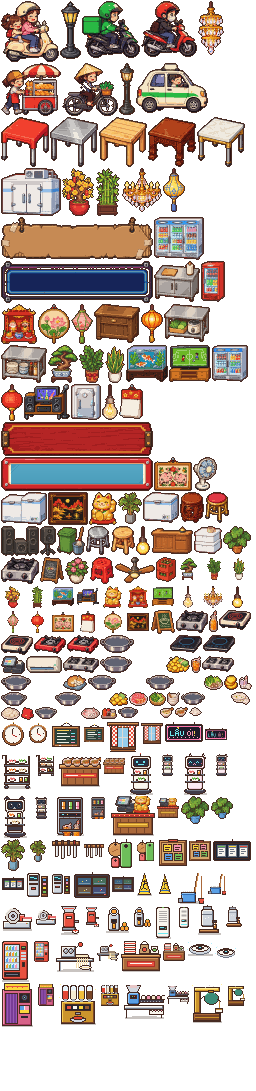
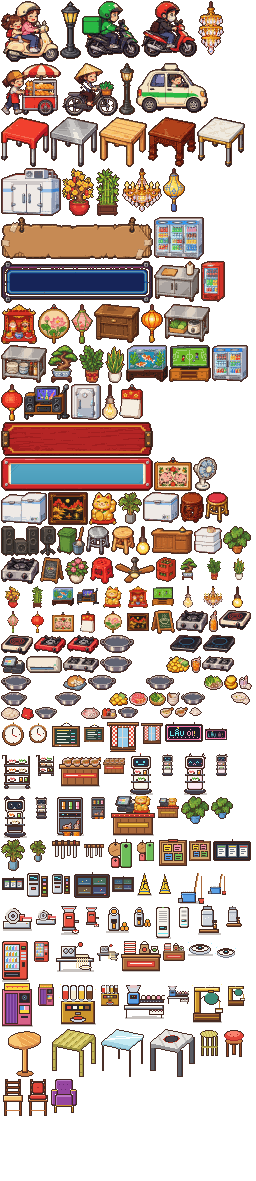
Lẩu Ơi v1.18i: tách màu bàn / màu ghế, thêm dáng bàn & dáng ghế vào Hộp mù, sửa bảng bị thanh menu che
- Màu bàn và màu ghế là hai loại riêng: 5 màu bàn (cũ) chỉ tô bàn; 7 màu ghế mới (gỗ sáng, nhựa trắng,
  nhựa xanh lá, nhựa xanh dương, hồng pastel, gỗ óc chó, Ghế Rồng Vàng); ô xem trước đúng hình bàn / ghế
- Dáng mới vẽ pixel (dùng chung được với màu): bàn tròn một chân, bàn tre, bàn mặt kính chân sắt, bàn lẩu bếp âm;
  ghế đẩu tre, ghế có đệm, ghế tựa lưng, ghế tựa lưng có đệm, ghế bành nhung (SSR)
- Bộ lọc "Nồi, bàn, ghế"; Hộp mù giờ 109 món
- Bảng (sheet) kết thúc đúng mép thanh menu dưới (đo chiều cao thật), thẻ cuối không bị che; sw lauoi-v38

Claude-Session: https://claude.ai/code/session_01BD8ysNy2UsXiFAiTavnXvs

diff --git a/web/quanlau/src/art/data/props.js b/web/quanlau/src/art/data/props.js
@@ -1,2 +1,2 @@
 // generated by tools/art/pack.py — do not edit
-export default {"file":"props.png","frames":{"xemay2":[1,1,58,61,29,60],"lamp":[60,1,21,58,10,57],"grab":[82,1,58,57,29,56],"xemay":[141,1,56,56,28,55],"den_chum2":[198,1,26,54,13,1],"xebanhmi":[1,63,60,53,30,52],"xedap":[62,63,56,53,28,52],"lamp2":[119,63,16,52,8,51],"taxi":[136,63,72,50,36,49],"table0":[1,117,48,50,24,34],"table1":[50,117,48,50,24,34],"table2":[99,117,48,50,24,34],"table3":[148,117,48,50,24,34],"table4":[197,117,48,50,24,34],"kho4":[1,168,60,48,30,47],"cay_mai":[62,168,32,48,16,47],"cay_tre":[95,168,26,48,13,47],"den_chum1":[122,168,40,44,20,1],"den_hoian2":[163,168,22,44,11,1],"sign1":[1,217,152,43,76,21],"cooler2":[154,217,50,43,25,42],"sign4":[1,261,152,42,76,21],"counter_c":[154,261,46,41,23,40],"cooler0":[201,261,24,41,12,40],"db_ongdia":[1,304,36,40,18,39],"tuong_quat":[38,304,32,40,16,1],"den_hoian1":[71,304,22,40,11,1],"counter_wood":[94,304,46,39,23,38],"den_cam":[141,304,22,39,11,1],"counter_a":[164,304,46,38,23,37],"counter_b":[1,345,46,38,23,37],"cay_bonsai":[48,345,30,38,15,37],"cay_kimtien":[79,345,25,38,12,37],"cay_luoiho":[105,345,20,38,10,37],"db_beca":[126,345,42,37,21,36],"db_tivi":[169,345,42,37,21,36],"cooler1":[212,345,36,37,18,36],"den_long_do":[1,384,22,37,11,1],"db_karaoke":[24,384,46,36,23,35],"kho3":[71,384,30,36,15,35],"den_bong":[102,384,16,36,8,1],"tuong_lich":[119,384,24,35,12,1],"sign2":[1,422,152,34,76,17],"sign3":[1,457,152,34,76,17],"tuong_dongho":[154,457,38,34,19,1],"fan":[193,457,24,34,12,33],"kho2":[1,492,46,33,23,32],"tuong_sonmai":[48,492,40,33,20,32],"db_meo":[89,492,28,33,14,32],"plant_palm":[118,492,24,32,12,31],"kho1":[143,492,36,31,18,30],"stool3":[180,492,24,31,12,30],"stool4":[205,492,24,31,12,30],"spk2":[1,526,38,30,19,29],"spk1":[40,526,16,30,8,29],"bin":[57,526,28,29,14,28],"stool1":[86,526,24,29,12,28],"stool2":[111,526,24,29,12,28],"den_day":[136,526,14,29,7,1],"desk":[151,526,42,28,21,27],"kho0":[194,526,28,28,14,27],"plant_monstera":[223,526,28,28,14,27],"stove4":[1,557,38,27,19,26],"chalk":[40,557,24,27,12,26],"plant_flower":[65,557,24,27,12,26],"stool0":[90,557,24,27,12,26],"ceilfan":[115,557,40,26,20,25],"crates":[156,557,20,25,10,24],"ico_cay_bonsai":[177,557,24,24,12,12],"ico_cay_kimtien":[202,557,24,24,12,12],"ico_cay_luoiho":[227,557,24,24,12,12],"ico_cay_mai":[1,585,24,24,12,12],"ico_cay_tre":[26,585,24,24,12,12],"ico_db_beca":[51,585,24,24,12,12],"ico_db_karaoke":[76,585,24,24,12,12],"ico_db_meo":[101,585,24,24,12,12],"ico_db_ongdia":[126,585,24,24,12,12],"ico_db_tivi":[151,585,24,24,12,12],"ico_den_bong":[176,585,24,24,12,12],"ico_den_chum":[201,585,24,24,12,12],"ico_den_day":[226,585,24,24,12,12],"ico_den_hoian":[1,610,24,24,12,12],"ico_den_long_do":[26,610,24,24,12,12],"ico_tuong_dongho":[51,610,24,24,12,12],"ico_tuong_lich":[76,610,24,24,12,12],"ico_tuong_quat":[101,610,24,24,12,12],"ico_tuong_sonmai":[126,610,24,24,12,12],"menuboard":[151,610,24,24,12,23],"tburner4":[176,610,32,23,16,22],"bottle_orange":[209,610,9,22,4,21],"stove2":[219,610,32,20,16,19],"tburner2":[1,635,32,20,16,19],"stove0":[34,635,32,19,16,18],"tburner0":[67,635,32,19,16,18],"pot4_s":[100,635,34,18,17,17],"pot4_s_m":[135,635,34,18,17,17],"stove3":[170,635,32,18,16,17],"tburner3":[203,635,32,18,16,17],"pos":[1,656,24,18,12,17],"aircon":[26,656,36,17,18,16],"stove1":[63,656,36,17,18,16],"pot3_s":[100,656,32,17,16,16],"pot3_s_m":[133,656,32,17,16,16],"coin_l":[166,656,24,17,12,16],"cup_tea":[191,656,10,17,5,16],"tburner1":[202,656,32,16,16,15],"pot2_s":[1,675,30,16,15,15],"pot2_s_m":[32,675,30,16,15,15],"cat":[63,675,24,16,12,15],"pot1_s":[88,675,28,15,14,14],"pot1_s_m":[117,675,28,15,14,14],"pot4_t":[146,675,28,15,14,14],"pot4_t_m":[175,675,28,15,14,14],"plate_veg":[204,675,19,15,9,14],"coin_s":[224,675,14,15,7,14],"dirty_cup":[239,675,13,15,6,14],"pot0_s":[1,692,26,14,13,13],"pot0_s_m":[28,692,26,14,13,13],"pot3_t":[55,692,26,14,13,13],"pot3_t_m":[82,692,26,14,13,13],"coin_mid":[109,692,19,14,9,13],"plate_meat":[129,692,19,14,9,13],"plate_herb":[149,692,17,14,8,13],"dirty_bowls":[167,692,13,14,6,13],"pot2_t":[181,692,24,13,12,12],"pot2_t_m":[206,692,24,13,12,12],"dirty_plate":[231,692,19,13,9,12],"plate_noodle":[1,707,19,13,9,12],"reserved":[21,707,13,13,6,12],"pot1_t":[35,707,22,12,11,11],"pot1_t_m":[58,707,22,12,11,11],"plate_fish":[81,707,19,12,9,11],"condiments":[101,707,16,12,8,11],"pot0_t":[118,707,20,11,10,10],"pot0_t_m":[139,707,20,11,10,10],"bowl_noodle":[160,707,14,11,7,10],"bowl_sauce":[175,707,13,10,6,9],"napkins":[189,707,13,9,6,8],"tuong_clock":[1,722,24,26,12,1],"ico_tuong_clock":[26,722,24,24,12,12],"tuong_bangmon":[51,722,30,26,15,1],"ico_tuong_bangmon":[82,722,24,24,12,12],"tuong_rem":[107,722,32,30,16,1],"ico_tuong_rem":[140,722,24,24,12,12],"tuong_led":[165,722,38,20,19,1],"ico_tuong_led":[204,722,24,24,12,12],"db_xeday":[1,753,32,36,16,35],"ico_db_xeday":[34,753,24,24,12,12],"db_quaycham":[59,753,42,34,21,33],"ico_db_quaycham":[102,753,24,24,12,12],"db_robot":[127,753,28,42,14,41],"ico_db_robot":[156,753,24,24,12,12],"db_robotmeo":[181,753,28,42,14,41],"ico_db_robotmeo":[210,753,24,24,12,12],"db_robotgau":[1,796,28,42,14,41],"ico_db_robotgau":[30,796,24,24,12,12],"db_mayphanuoc":[55,796,30,40,15,39],"ico_db_mayphanuoc":[86,796,24,24,12,12],"db_quaythungan":[111,796,44,40,22,39],"ico_db_quaythungan":[156,796,24,24,12,12],"cay_trauba":[181,796,28,28,14,27],"ico_cay_trauba":[210,796,24,24,12,12],"cay_cau":[1,839,24,32,12,31],"ico_cay_cau":[26,839,24,24,12,12],"tuong_giadao":[51,839,30,20,15,1],"ico_tuong_giadao":[82,839,24,24,12,12],"tuong_thot":[107,839,26,30,13,1],"ico_tuong_thot":[134,839,24,24,12,12],"tuong_lichsk":[159,839,28,28,14,1],"ico_tuong_lichsk":[188,839,24,24,12,12],"tuong_kds":[213,839,38,22,19,1],"ico_tuong_kds":[1,872,24,24,12,12],"tuong_chamcong":[26,872,22,26,11,1],"ico_tuong_chamcong":[49,872,24,24,12,12],"tuong_camera":[74,872,36,26,18,1],"ico_tuong_camera":[111,872,24,24,12,12],"db_sanuot":[136,872,16,24,8,23],"ico_db_sanuot":[153,872,24,24,12,12],"db_choilau":[178,872,26,32,13,31],"ico_db_choilau":[205,872,24,24,12,12],"db_maythai":[1,905,32,26,16,25],"ico_db_maythai":[34,905,24,24,12,12],"db_mayxay":[59,905,20,30,10,29],"ico_db_mayxay":[80,905,24,24,12,12],"db_mayvatcam":[105,905,24,28,12,27],"ico_db_mayvatcam":[130,905,24,24,12,12],"db_locKK":[155,905,16,34,8,33],"ico_db_locKK":[172,905,24,24,12,12],"db_mayutra":[197,905,24,30,12,29],"ico_db_mayutra":[222,905,24,24,12,12],"db_bannuoc":[1,940,28,42,14,41],"ico_db_bannuoc":[30,940,24,24,12,12],"db_daychuyenmi":[55,940,40,32,20,31],"ico_db_daychuyenmi":[96,940,24,24,12,12],"db_donggoi":[121,940,40,32,20,31],"ico_db_donggoi":[162,940,24,24,12,12],"db_robotlau":[187,940,26,16,13,15],"ico_db_robotlau":[214,940,24,24,12,12],"db_photobooth":[1,983,32,44,16,43],"ico_db_photobooth":[34,983,24,24,12,12],"db_bachvi":[59,983,38,42,19,41],"ico_db_bachvi":[98,983,24,24,12,12],"db_xuongvien":[123,983,42,36,21,35],"ico_db_xuongvien":[166,983,24,24,12,12],"db_phatra":[191,983,32,40,16,39],"ico_db_phatra":[224,983,24,24,12,12]}};
+export default {"file":"props.png","frames":{"xemay2":[1,1,58,61,29,60],"lamp":[60,1,21,58,10,57],"grab":[82,1,58,57,29,56],"xemay":[141,1,56,56,28,55],"den_chum2":[198,1,26,54,13,1],"xebanhmi":[1,63,60,53,30,52],"xedap":[62,63,56,53,28,52],"lamp2":[119,63,16,52,8,51],"taxi":[136,63,72,50,36,49],"table0":[1,117,48,50,24,34],"table1":[50,117,48,50,24,34],"table2":[99,117,48,50,24,34],"table3":[148,117,48,50,24,34],"table4":[197,117,48,50,24,34],"kho4":[1,168,60,48,30,47],"cay_mai":[62,168,32,48,16,47],"cay_tre":[95,168,26,48,13,47],"den_chum1":[122,168,40,44,20,1],"den_hoian2":[163,168,22,44,11,1],"sign1":[1,217,152,43,76,21],"cooler2":[154,217,50,43,25,42],"sign4":[1,261,152,42,76,21],"counter_c":[154,261,46,41,23,40],"cooler0":[201,261,24,41,12,40],"db_ongdia":[1,304,36,40,18,39],"tuong_quat":[38,304,32,40,16,1],"den_hoian1":[71,304,22,40,11,1],"counter_wood":[94,304,46,39,23,38],"den_cam":[141,304,22,39,11,1],"counter_a":[164,304,46,38,23,37],"counter_b":[1,345,46,38,23,37],"cay_bonsai":[48,345,30,38,15,37],"cay_kimtien":[79,345,25,38,12,37],"cay_luoiho":[105,345,20,38,10,37],"db_beca":[126,345,42,37,21,36],"db_tivi":[169,345,42,37,21,36],"cooler1":[212,345,36,37,18,36],"den_long_do":[1,384,22,37,11,1],"db_karaoke":[24,384,46,36,23,35],"kho3":[71,384,30,36,15,35],"den_bong":[102,384,16,36,8,1],"tuong_lich":[119,384,24,35,12,1],"sign2":[1,422,152,34,76,17],"sign3":[1,457,152,34,76,17],"tuong_dongho":[154,457,38,34,19,1],"fan":[193,457,24,34,12,33],"kho2":[1,492,46,33,23,32],"tuong_sonmai":[48,492,40,33,20,32],"db_meo":[89,492,28,33,14,32],"plant_palm":[118,492,24,32,12,31],"kho1":[143,492,36,31,18,30],"stool3":[180,492,24,31,12,30],"stool4":[205,492,24,31,12,30],"spk2":[1,526,38,30,19,29],"spk1":[40,526,16,30,8,29],"bin":[57,526,28,29,14,28],"stool1":[86,526,24,29,12,28],"stool2":[111,526,24,29,12,28],"den_day":[136,526,14,29,7,1],"desk":[151,526,42,28,21,27],"kho0":[194,526,28,28,14,27],"plant_monstera":[223,526,28,28,14,27],"stove4":[1,557,38,27,19,26],"chalk":[40,557,24,27,12,26],"plant_flower":[65,557,24,27,12,26],"stool0":[90,557,24,27,12,26],"ceilfan":[115,557,40,26,20,25],"crates":[156,557,20,25,10,24],"ico_cay_bonsai":[177,557,24,24,12,12],"ico_cay_kimtien":[202,557,24,24,12,12],"ico_cay_luoiho":[227,557,24,24,12,12],"ico_cay_mai":[1,585,24,24,12,12],"ico_cay_tre":[26,585,24,24,12,12],"ico_db_beca":[51,585,24,24,12,12],"ico_db_karaoke":[76,585,24,24,12,12],"ico_db_meo":[101,585,24,24,12,12],"ico_db_ongdia":[126,585,24,24,12,12],"ico_db_tivi":[151,585,24,24,12,12],"ico_den_bong":[176,585,24,24,12,12],"ico_den_chum":[201,585,24,24,12,12],"ico_den_day":[226,585,24,24,12,12],"ico_den_hoian":[1,610,24,24,12,12],"ico_den_long_do":[26,610,24,24,12,12],"ico_tuong_dongho":[51,610,24,24,12,12],"ico_tuong_lich":[76,610,24,24,12,12],"ico_tuong_quat":[101,610,24,24,12,12],"ico_tuong_sonmai":[126,610,24,24,12,12],"menuboard":[151,610,24,24,12,23],"tburner4":[176,610,32,23,16,22],"bottle_orange":[209,610,9,22,4,21],"stove2":[219,610,32,20,16,19],"tburner2":[1,635,32,20,16,19],"stove0":[34,635,32,19,16,18],"tburner0":[67,635,32,19,16,18],"pot4_s":[100,635,34,18,17,17],"pot4_s_m":[135,635,34,18,17,17],"stove3":[170,635,32,18,16,17],"tburner3":[203,635,32,18,16,17],"pos":[1,656,24,18,12,17],"aircon":[26,656,36,17,18,16],"stove1":[63,656,36,17,18,16],"pot3_s":[100,656,32,17,16,16],"pot3_s_m":[133,656,32,17,16,16],"coin_l":[166,656,24,17,12,16],"cup_tea":[191,656,10,17,5,16],"tburner1":[202,656,32,16,16,15],"pot2_s":[1,675,30,16,15,15],"pot2_s_m":[32,675,30,16,15,15],"cat":[63,675,24,16,12,15],"pot1_s":[88,675,28,15,14,14],"pot1_s_m":[117,675,28,15,14,14],"pot4_t":[146,675,28,15,14,14],"pot4_t_m":[175,675,28,15,14,14],"plate_veg":[204,675,19,15,9,14],"coin_s":[224,675,14,15,7,14],"dirty_cup":[239,675,13,15,6,14],"pot0_s":[1,692,26,14,13,13],"pot0_s_m":[28,692,26,14,13,13],"pot3_t":[55,692,26,14,13,13],"pot3_t_m":[82,692,26,14,13,13],"coin_mid":[109,692,19,14,9,13],"plate_meat":[129,692,19,14,9,13],"plate_herb":[149,692,17,14,8,13],"dirty_bowls":[167,692,13,14,6,13],"pot2_t":[181,692,24,13,12,12],"pot2_t_m":[206,692,24,13,12,12],"dirty_plate":[231,692,19,13,9,12],"plate_noodle":[1,707,19,13,9,12],"reserved":[21,707,13,13,6,12],"pot1_t":[35,707,22,12,11,11],"pot1_t_m":[58,707,22,12,11,11],"plate_fish":[81,707,19,12,9,11],"condiments":[101,707,16,12,8,11],"pot0_t":[118,707,20,11,10,10],"pot0_t_m":[139,707,20,11,10,10],"bowl_noodle":[160,707,14,11,7,10],"bowl_sauce":[175,707,13,10,6,9],"napkins":[189,707,13,9,6,8],"tuong_clock":[1,722,24,26,12,1],"ico_tuong_clock":[26,722,24,24,12,12],"tuong_bangmon":[51,722,30,26,15,1],"ico_tuong_bangmon":[82,722,24,24,12,12],"tuong_rem":[107,722,32,30,16,1],"ico_tuong_rem":[140,722,24,24,12,12],"tuong_led":[165,722,38,20,19,1],"ico_tuong_led":[204,722,24,24,12,12],"db_xeday":[1,753,32,36,16,35],"ico_db_xeday":[34,753,24,24,12,12],"db_quaycham":[59,753,42,34,21,33],"ico_db_quaycham":[102,753,24,24,12,12],"db_robot":[127,753,28,42,14,41],"ico_db_robot":[156,753,24,24,12,12],"db_robotmeo":[181,753,28,42,14,41],"ico_db_robotmeo":[210,753,24,24,12,12],"db_robotgau":[1,796,28,42,14,41],"ico_db_robotgau":[30,796,24,24,12,12],"db_mayphanuoc":[55,796,30,40,15,39],"ico_db_mayphanuoc":[86,796,24,24,12,12],"db_quaythungan":[111,796,44,40,22,39],"ico_db_quaythungan":[156,796,24,24,12,12],"cay_trauba":[181,796,28,28,14,27],"ico_cay_trauba":[210,796,24,24,12,12],"cay_cau":[1,839,24,32,12,31],"ico_cay_cau":[26,839,24,24,12,12],"tuong_giadao":[51,839,30,20,15,1],"ico_tuong_giadao":[82,839,24,24,12,12],"tuong_thot":[107,839,26,30,13,1],"ico_tuong_thot":[134,839,24,24,12,12],"tuong_lichsk":[159,839,28,28,14,1],"ico_tuong_lichsk":[188,839,24,24,12,12],"tuong_kds":[213,839,38,22,19,1],"ico_tuong_kds":[1,872,24,24,12,12],"tuong_chamcong":[26,872,22,26,11,1],"ico_tuong_chamcong":[49,872,24,24,12,12],"tuong_camera":[74,872,36,26,18,1],"ico_tuong_camera":[111,872,24,24,12,12],"db_sanuot":[136,872,16,24,8,23],"ico_db_sanuot":[153,872,24,24,12,12],"db_choilau":[178,872,26,32,13,31],"ico_db_choilau":[205,872,24,24,12,12],"db_maythai":[1,905,32,26,16,25],"ico_db_maythai":[34,905,24,24,12,12],"db_mayxay":[59,905,20,30,10,29],"ico_db_mayxay":[80,905,24,24,12,12],"db_mayvatcam":[105,905,24,28,12,27],"ico_db_mayvatcam":[130,905,24,24,12,12],"db_locKK":[155,905,16,34,8,33],"ico_db_locKK":[172,905,24,24,12,12],"db_mayutra":[197,905,24,30,12,29],"ico_db_mayutra":[222,905,24,24,12,12],"db_bannuoc":[1,940,28,42,14,41],"ico_db_bannuoc":[30,940,24,24,12,12],"db_daychuyenmi":[55,940,40,32,20,31],"ico_db_daychuyenmi":[96,940,24,24,12,12],"db_donggoi":[121,940,40,32,20,31],"ico_db_donggoi":[162,940,24,24,12,12],"db_robotlau":[187,940,26,16,13,15],"ico_db_robotlau":[214,940,24,24,12,12],"db_photobooth":[1,983,32,44,16,43],"ico_db_photobooth":[34,983,24,24,12,12],"db_bachvi":[59,983,38,42,19,41],"ico_db_bachvi":[98,983,24,24,12,12],"db_xuongvien":[123,983,42,36,21,35],"ico_db_xuongvien":[166,983,24,24,12,12],"db_phatra":[191,983,32,40,16,39],"ico_db_phatra":[224,983,24,24,12,12],"tshape_tron":[1,1028,48,50,24,34],"tshape_tre":[50,1028,48,50,24,34],"tshape_kinh":[99,1028,48,50,24,34],"tshape_bepam":[148,1028,48,50,24,34],"cshape_tre":[197,1028,24,29,12,28],"cshape_dem":[222,1028,24,30,12,29],"cshape_tua":[1,1079,24,38,12,37],"cshape_tuadem":[26,1079,24,38,12,37],"cshape_banh":[51,1079,26,34,13,33]}};

diff --git a/web/quanlau/src/ui/blindbox.js b/web/quanlau/src/ui/blindbox.js
@@ -15,11 +15,11 @@ const RAR = C.BOX.rar;
 const RCLS = ['', 'r1', 'r2', 'r3', 'r4'];
 const KIND = {
   food: 'Món ăn mới', drink: 'Đồ uống mới', uniform: 'Đồng phục', look: 'Kiểu chủ quán', pot: 'Kiểu nồi lẩu',
-  table: 'Kiểu bàn ghế', deco: 'Đồ trang trí', badge: 'Thẻ thành tích',
+  table: 'Màu bàn', chair: 'Màu ghế', tform: 'Dáng bàn', cform: 'Dáng ghế', deco: 'Đồ trang trí', badge: 'Thẻ thành tích',
 };
 const FILTERS = [
   { id: 'all', label: 'Tất cả' }, { id: 'mon', label: 'Món', kinds: ['food', 'drink'] }, { id: 'ao', label: 'Trang phục', kinds: ['uniform', 'look'] },
-  { id: 'noi', label: 'Nồi & bàn', kinds: ['pot', 'table'] }, { id: 'deco', label: 'Trang trí', kinds: ['deco'], grp: '' }, { id: 'bep', label: 'Đồ bếp', kinds: ['deco'], grp: 'bep' }, { id: 'the', label: 'Thẻ', kinds: ['badge'] },
+  { id: 'noi', label: 'Nồi, bàn, ghế', kinds: ['pot', 'table', 'chair', 'tform', 'cform'] }, { id: 'deco', label: 'Trang trí', kinds: ['deco'], grp: '' }, { id: 'bep', label: 'Đồ bếp', kinds: ['deco'], grp: 'bep' }, { id: 'the', label: 'Thẻ', kinds: ['badge'] },
 ];
 let filter = 'all';
 let curSet = 'hop';   // v1.18e chỉ còn Hộp mù (Túi mù đã gộp vào)
@@ -48,14 +48,14 @@ export function itemPic(it, size = 40) {
       case 'drink': return ico(D.DRINK[it.ref]?.icon || 'drk_trada', size);
       case 'uniform': return img(lookPreviewURL(makeStaffLook('phucvu', 1, it.ref, 'tron'), 2), size, 'bx-look');
       case 'look': return img(lookPreviewURL(makeOwnerLook(it.ref, Math.max(1, S().tier || 1)), 2), size, 'bx-look');
-      case 'pot': case 'table': return img(skinPreviewURL(it.kind, it.ref, 3), size);
+      case 'pot': case 'table': case 'chair': case 'tform': case 'cform': return img(skinPreviewURL(it.kind, it.ref, 3), size);
       case 'deco': return img(decoIconURL(it.ref, Math.max(1, Math.round(size / 24))), size);
       case 'badge': return medal(it, size);
       default: return ico('ui_gift', size);
     }
   } catch (e) { return ico('ui_gift', size); }
 }
-const equipped = (it, bi) => (it.kind === 'badge' && bi.badge === it.id) || (it.kind === 'pot' && bi.pot === it.ref) || (it.kind === 'table' && bi.table === it.ref);
+const equipped = (it, bi) => (it.kind === 'badge' && bi.badge === it.id) || (it.kind === 'pot' && bi.pot === it.ref) || (it.kind === 'table' && bi.table === it.ref) || (it.kind === 'chair' && bi.chair === it.ref) || (it.kind === 'tform' && bi.tform === it.ref) || (it.kind === 'cform' && bi.cform === it.ref);
 
 /** Quán ▸ Giải trí ▸ Hộp mù */
 export function boxView(body, api, set = 'hop') {
@@ -162,7 +162,7 @@ function hintFor(news) {
   if (k.has('food') || k.has('drink')) t.push('Món mới đã lên Thực đơn (món ăn kèm, tráng miệng cần dụng cụ bếp tương ứng).');
   if (k.has('deco')) t.push('Đồ trang trí mới: vào Quán ▸ Trang trí bấm Dùng.');
   if (k.has('uniform') || k.has('look')) t.push('Trang phục mới: vào Nhân viên ▸ Đồng phục.');
-  if (k.has('pot') || k.has('table')) t.push('Kiểu nồi / bàn: chạm vào món trong bộ sưu tập để dùng.');
+  if (k.has('pot') || k.has('table') || k.has('chair') || k.has('tform') || k.has('cform')) t.push('Kiểu nồi / bàn / ghế: chạm vào món trong bộ sưu tập để dùng.');
   if (k.has('badge')) t.push('Thẻ thành tích hiện cạnh tên quán trên bảng xếp hạng.');
   return t.join(' ');
 }
@@ -178,7 +178,7 @@ function openItem(it, api) {
       const rer = () => { m.close('ok'); api.rerender(); };
       const btns = [];
       if (n) {
-        if (['badge', 'pot', 'table'].includes(it.kind)) {
+        if (['badge', 'pot', 'table', 'chair', 'tform', 'cform'].includes(it.kind)) {
           const on = equipped(it, bi);
           btns.push(h('button', { class: 'btn ' + (on ? 'paper' : 'jade') + ' block', type: 'button', onclick: () => { const r = act('equipBox', it.id, !on); if (r.ok !== false) { sfx('confirm'); rer(); } } }, on ? 'Thôi dùng' : it.kind === 'badge' ? 'Đeo lên bảng xếp hạng' : 'Dùng cho cả quán'));
         }
@@ -206,7 +206,10 @@ function describe(it) {
     case 'uniform': return 'Màu đồng phục độc quyền, chọn cho nhân viên hoặc chủ quán.';
     case 'look': return 'Kiểu chủ quán dùng được ngay, không cần đợi tới cấp.';
     case 'pot': return 'Mọi nồi lẩu trên bàn và trên bếp đổi sang kiểu này.';
-    case 'table': return 'Bàn ghế cả quán đổi sang kiểu này.';
+    case 'table': return 'Mọi bàn lẩu trong quán đổi sang màu này (ghế chọn riêng ở Màu ghế).';
+    case 'chair': return 'Mọi ghế ngồi quanh bàn đổi sang màu này (bàn chọn riêng ở Màu bàn).';
+    case 'tform': return 'Mọi bàn trong quán đổi sang dáng này. Dùng chung được với Màu bàn.';
+    case 'cform': return 'Mọi ghế quanh bàn đổi sang dáng này. Dùng chung được với Màu ghế.';
     case 'deco': { const d = C.DECO.find((x) => x.id === it.ref); return `Trang trí ${C.DECO_CATS.find((c) => c.id === d?.cat)?.name.toLowerCase() || ''}, không khí +${d?.amb || 0}.` + (d?.desc ? ' ' + d.desc : ''); }
     case 'badge': return 'Thẻ thành tích: đeo lên là hiện cạnh tên quán trên bảng xếp hạng.';
     default: return '';

diff --git a/web/quanlau/src/config.js b/web/quanlau/src/config.js
@@ -964,12 +964,30 @@ export const BOX = {
     { id: 'bx_p_gomxanh',  r: 2, kind: 'pot', ref: 'gomxanh',  name: 'Nồi lẩu gốm hoa văn xanh' },
     { id: 'bx_p_menngoc',  r: 3, kind: 'pot', ref: 'menngoc',  name: 'Nồi lẩu men ngọc' },
     { id: 'bx_p_hoanggia', r: 4, kind: 'pot', ref: 'hoanggia', name: 'Nồi Lẩu Hoàng Gia' },
-    // kiểu bàn ghế (đeo 1 kiểu cho cả quán)
+    // kiểu BÀN (mặt bàn + chân bàn, đeo 1 kiểu cho cả quán)
     { id: 'bx_t_gosang',   r: 1, kind: 'table', ref: 'gosang',   name: 'Bàn lẩu gỗ sáng' },
     { id: 'bx_t_mattrang', r: 1, kind: 'table', ref: 'mattrang', name: 'Bàn lẩu mặt trắng' },
     { id: 'bx_t_matda',    r: 2, kind: 'table', ref: 'matda',    name: 'Bàn lẩu mặt đá' },
     { id: 'bx_t_occho',    r: 3, kind: 'table', ref: 'occho',    name: 'Bàn lẩu gỗ óc chó' },
     { id: 'bx_t_ngurthien', r: 4, kind: 'table', ref: 'ngurthien', name: 'Bàn Lẩu Ngự Thiện' },
+    // v1.18h kiểu GHẾ (đẩu ngồi quanh bàn, đeo 1 kiểu cho cả quán)
+    { id: 'bx_g_gosang',   r: 1, kind: 'chair', ref: 'gosang',   name: 'Ghế gỗ sáng' },
+    { id: 'bx_g_trang',    r: 1, kind: 'chair', ref: 'trang',    name: 'Ghế nhựa trắng' },
+    { id: 'bx_g_xanhla',   r: 1, kind: 'chair', ref: 'xanhla',   name: 'Ghế nhựa xanh lá' },
+    { id: 'bx_g_xanhduong', r: 2, kind: 'chair', ref: 'xanhduong', name: 'Ghế nhựa xanh dương' },
+    { id: 'bx_g_hong',     r: 2, kind: 'chair', ref: 'hong',     name: 'Ghế hồng pastel' },
+    { id: 'bx_g_occho',    r: 3, kind: 'chair', ref: 'occho',    name: 'Ghế gỗ óc chó' },
+    { id: 'bx_g_vang',     r: 4, kind: 'chair', ref: 'vang',     name: 'Ghế Rồng Vàng' },
+    // v1.18i DÁNG bàn / ghế (đeo 1 dáng cho cả quán, kết hợp được với màu)
+    { id: 'bx_tf_tron',   r: 1, kind: 'tform', ref: 'tron',   name: 'Bàn tròn một chân' },
+    { id: 'bx_tf_tre',    r: 1, kind: 'tform', ref: 'tre',    name: 'Bàn tre' },
+    { id: 'bx_tf_kinh',   r: 2, kind: 'tform', ref: 'kinh',   name: 'Bàn mặt kính chân sắt' },
+    { id: 'bx_tf_bepam',  r: 3, kind: 'tform', ref: 'bepam',  name: 'Bàn lẩu bếp âm' },
+    { id: 'bx_cf_tre',    r: 1, kind: 'cform', ref: 'tre',    name: 'Ghế đẩu tre' },
+    { id: 'bx_cf_dem',    r: 1, kind: 'cform', ref: 'dem',    name: 'Ghế có đệm' },
+    { id: 'bx_cf_tua',    r: 2, kind: 'cform', ref: 'tua',    name: 'Ghế tựa lưng' },
+    { id: 'bx_cf_tuadem', r: 3, kind: 'cform', ref: 'tuadem', name: 'Ghế tựa lưng có đệm' },
+    { id: 'bx_cf_banh',   r: 4, kind: 'cform', ref: 'banh',   name: 'Ghế bành nhung' },
     // đồ trang trí (vào Quán ▸ Trang trí bấm Dùng)
     { id: 'bx_d_clock',    r: 1, kind: 'deco', ref: 'tuong_clock',   name: 'Đồng hồ treo tường' },
     { id: 'bx_d_bangmon',  r: 1, kind: 'deco', ref: 'tuong_bangmon', name: 'Bảng ghi món trong ngày' },
@@ -1043,6 +1061,30 @@ export const POT_SKINS = {
   gomxanh:  { name: 'Nồi lẩu gốm hoa văn xanh', h: 214, s: 0.5, v: 1.05, dots: '#ffffff' },
   menngoc:  { name: 'Nồi lẩu men ngọc',      h: 160, s: 0.35, v: 1.1 },
   hoanggia: { name: 'Nồi Lẩu Hoàng Gia',     h: 46,  s: 0.8, v: 1.2, dots: '#fff6c8' },
+};
+// v1.18h: màu GHẾ tách riêng khỏi màu BÀN (owner: "chỉ mới có màu ghế, tạo thêm cả màu bàn")
+export const CHAIR_SKINS = {
+  gosang:   { name: 'Ghế gỗ sáng',          h: 36,  s: 0.42, v: 1.22 },
+  trang:    { name: 'Ghế nhựa trắng',       h: 35,  s: 0.05, v: 1.45 },
+  xanhla:   { name: 'Ghế nhựa xanh lá',     h: 110, s: 0.6,  v: 1.0 },
+  xanhduong: { name: 'Ghế nhựa xanh dương', h: 212, s: 0.65, v: 1.0 },
+  hong:     { name: 'Ghế hồng pastel',      h: 340, s: 0.38, v: 1.25 },
+  occho:    { name: 'Ghế gỗ óc chó',        h: 20,  s: 0.5,  v: 0.62 },
+  vang:     { name: 'Ghế Rồng Vàng',        h: 46,  s: 0.85, v: 1.15 },
+};
+// v1.18i DÁNG bàn / ghế (vẽ riêng, art: tshape_* / cshape_*) — dùng chung được với màu bàn / màu ghế
+export const TABLE_SHAPES = {
+  tron:  { name: 'Bàn tròn một chân' },
+  tre:   { name: 'Bàn tre' },
+  kinh:  { name: 'Bàn mặt kính chân sắt' },
+  bepam: { name: 'Bàn lẩu bếp âm' },
+};
+export const CHAIR_SHAPES = {
+  tre:    { name: 'Ghế đẩu tre' },
+  dem:    { name: 'Ghế có đệm' },
+  tua:    { name: 'Ghế tựa lưng' },
+  tuadem: { name: 'Ghế tựa lưng có đệm' },
+  banh:   { name: 'Ghế bành nhung' },
 };
 export const TABLE_SKINS = {
   gosang:   { name: 'Bàn lẩu gỗ sáng',      h: 36,  s: 0.42, v: 1.22 },

diff --git a/web/quanlau/src/art/scenes.js b/web/quanlau/src/art/scenes.js
@@ -5,7 +5,7 @@
 // The renderer draws into a buffer at DETAIL px per world px with integer world coordinates, so sprites blit 1:1.
 // Everything is wrapped so that unknown ids / a missing atlas never throw (the frame just lacks that sprite).
 import { PAL, BROTH } from './palette.js';
-import { POT_SKINS, TABLE_SKINS } from '../config.js';
+import { POT_SKINS, TABLE_SKINS, CHAIR_SKINS, TABLE_SHAPES, CHAIR_SHAPES } from '../config.js';
 import { drawIcon } from './icons.js';
 import { loadAtlas, blit, frameCanvas, DETAIL } from './assets.js';
 import PROPS from './data/props.js';
@@ -160,9 +160,13 @@ function signBox(L, level) {
 }
 
 // ─────────────────────────────── v1.18 kiểu nồi / bàn Hộp mù (tô lại màu lúc vẽ) ───────────────────────────────
-let SKIN_POT = null, SKIN_TABLE = null;
-/** renderer gọi mỗi khung hình: skin = id trong C.POT_SKINS / C.TABLE_SKINS hoặc null. */
-export function setSkins(pot, table) { SKIN_POT = POT_SKINS[pot] ? pot : null; SKIN_TABLE = TABLE_SKINS[table] ? table : null; }
+let SKIN_POT = null, SKIN_TABLE = null, SKIN_CHAIR = null;
+/** renderer gọi mỗi khung hình: skin = id trong C.POT_SKINS / C.TABLE_SKINS / C.CHAIR_SKINS hoặc null. */
+let FORM_TABLE = null, FORM_CHAIR = null;
+export function setSkins(pot, table, chair, tform, cform) {
+  SKIN_POT = POT_SKINS[pot] ? pot : null; SKIN_TABLE = TABLE_SKINS[table] ? table : null; SKIN_CHAIR = CHAIR_SKINS[chair] ? chair : null;
+  FORM_TABLE = TABLE_SHAPES[tform] && F['tshape_' + tform] ? tform : null; FORM_CHAIR = CHAIR_SHAPES[cform] && F['cshape_' + cform] ? cform : null;
+}
 const skinCache = new Map();
 function hsv(r, g, b) {
   const mx = Math.max(r, g, b), mn = Math.min(r, g, b), d = mx - mn;
@@ -204,9 +208,13 @@ function recolorCanvas(key, base, skin, mode) {
   skinCache.set(ck, c);
   return c;
 }
-/** put() có áp kiểu bàn (gỗ) khi đang đeo. */
+/** put() có áp kiểu bàn / kiểu ghế khi đang đeo (v1.18h: ghế 'stool*' theo màu ghế, bàn 'table*' theo màu bàn). */
 function putTableSkin(ctx, key, x, y) {
-  const c = SKIN_TABLE ? recolorCanvas(key, null, TABLE_SKINS[SKIN_TABLE], 'wood') : null;
+  const chair = key.startsWith('stool');
+  if (chair && FORM_CHAIR) key = 'cshape_' + FORM_CHAIR;          // v1.18i dáng ghế
+  else if (!chair && FORM_TABLE) key = 'tshape_' + FORM_TABLE;    // v1.18i dáng bàn
+  const sk = chair ? (SKIN_CHAIR && CHAIR_SKINS[SKIN_CHAIR]) : (SKIN_TABLE && TABLE_SKINS[SKIN_TABLE]);
+  const c = sk ? recolorCanvas(key, null, sk, 'wood') : null;
   if (c) putCanvas(ctx, c, F[key], x, y); else put(ctx, key, x, y);
 }
 
@@ -857,10 +865,11 @@ export function skinPreviewURL(kind, id, scale = 3) {
     let url = urlCache.get(key);
     if (url) return url;
     if (!hasDOM || !P.img) return BLANK;
-    const isPot = kind === 'pot', fk = isPot ? 'pot2_t' : 'table2';
-    const skin = isPot ? POT_SKINS[id] : TABLE_SKINS[id], f = F[fk];
-    if (!skin || !f) return BLANK;
-    let src = recolorCanvas(fk, null, skin, isPot ? 'metal' : 'wood');
+    const isPot = kind === 'pot', isForm = kind === 'tform' || kind === 'cform';
+    const fk = isPot ? 'pot2_t' : kind === 'chair' ? 'stool2' : kind === 'tform' ? 'tshape_' + id : kind === 'cform' ? 'cshape_' + id : 'table2';
+    const skin = isPot ? POT_SKINS[id] : kind === 'chair' ? CHAIR_SKINS[id] : kind === 'table' ? TABLE_SKINS[id] : null, f = F[fk];
+    if ((!skin && !isForm) || !f) return BLANK;
+    let src = isForm ? frameCanvas(P, f, 1) : recolorCanvas(fk, null, skin, isPot ? 'metal' : 'wood');
     if (isPot) {   // nồi đang sôi (nước lẩu đỏ) cho dễ nhìn
       const prev = SKIN_POT; SKIN_POT = id; src = potCanvas(fk, 'thai', 2) || src; SKIN_POT = prev;
     }

diff --git a/web/quanlau/src/core/box.js b/web/quanlau/src/core/box.js
@@ -21,6 +21,9 @@ export function boxState(s) {
   if (b.badge && !C.badgeOf(b.badge)) b.badge = null;
   if (b.pot && !C.POT_SKINS[b.pot]) b.pot = null;           // kiểu nồi đang dùng (ref trong C.POT_SKINS)
   if (b.table && !C.TABLE_SKINS[b.table]) b.table = null;   // kiểu bàn đang dùng
+  if (b.chair && !C.CHAIR_SKINS[b.chair]) b.chair = null;   // v1.18h kiểu ghế đang dùng
+  if (b.tform && !C.TABLE_SHAPES[b.tform]) b.tform = null;  // v1.18i dáng bàn / dáng ghế
+  if (b.cform && !C.CHAIR_SHAPES[b.cform]) b.cform = null;
   if (!Array.isArray(b.log)) b.log = [];                  // 20 món gần nhất
   // v1.18e gộp Túi mù vào Hộp mù: số túi đã mở / tiền đã chi cộng dồn vào Hộp mù (một lần)
   if (b.tui && typeof b.tui === 'object') {
@@ -64,6 +67,9 @@ function grant(G, item) {
     if (item.kind === 'badge' && !b.badge) b.badge = item.id;   // thẻ đầu tiên tự đeo luôn
     if (item.kind === 'pot' && !b.pot) b.pot = item.ref;          // kiểu nồi / bàn đầu tiên tự dùng luôn
     if (item.kind === 'table' && !b.table) b.table = item.ref;
+    if (item.kind === 'chair' && !b.chair) b.chair = item.ref;
+    if (item.kind === 'tform' && !b.tform) b.tform = item.ref;
+    if (item.kind === 'cform' && !b.cform) b.cform = item.ref;
     if (item.kind === 'deco' && s.deco && Array.isArray(s.deco.owned) && !s.deco.owned.includes(item.ref)) s.deco.owned.push(item.ref);
   }
   return { id: item.id, r: item.r, dup, shards };
@@ -120,7 +126,7 @@ export function exchangeBox(G, id) {
 /** Dùng / bỏ một món đeo được: thẻ thành tích (bảng xếp hạng), kiểu nồi, kiểu bàn. on=false để bỏ. */
 export function equipBox(G, id, on = true) {
   const b = boxState(G.state), it = C.BOX_ITEM[id];
-  if (!it || !['badge', 'pot', 'table'].includes(it.kind)) return fail('unknown', 'Món này không đeo được.');
+  if (!it || !['badge', 'pot', 'table', 'chair', 'tform', 'cform'].includes(it.kind)) return fail('unknown', 'Món này không đeo được.');
   if (!(b.got[id] > 0)) return fail('locked', 'Chưa có món này, rút Hộp mù để nhận nha.');
   const key = it.kind === 'badge' ? 'badge' : it.kind, val = it.kind === 'badge' ? id : it.ref;
   b[key] = on ? val : null;
@@ -140,6 +146,6 @@ export function boxInfo(G, set = 'hop') {
     freeLeft: b.freeDay === s.day ? 0 : 1, shards: all.shards, opened: b.opened, owned, total,
     rareIn: Math.max(1, P.pityRare - b.sinceRare), epicIn: Math.max(1, (P.pityEpic || 0) - b.sinceEpic), mystIn: Math.max(1, P.pityMyst - b.sinceMyst),
     rareAt: b.sinceRare, epicAt: b.sinceEpic, mystAt: b.sinceMyst,
-    got: Object.assign({}, all.got), badge: all.badge || null, pot: all.pot || null, table: all.table || null, spent: b.spent,
+    got: Object.assign({}, all.got), badge: all.badge || null, pot: all.pot || null, table: all.table || null, chair: all.chair || null, tform: all.tform || null, cform: all.cform || null, spent: b.spent,
   };
 }

diff --git a/web/quanlau/src/ui/index.js b/web/quanlau/src/ui/index.js
@@ -44,6 +44,14 @@ export function mountUI(game, { renderer, audio } = {}) {
   const fxRoot = ensure('fx-root', app);
   const coachRoot = ensure('coach-root', app);
   const popRoot = ensure('pop-root', app);
+  // v1.18h: bảng (sheet) kết thúc đúng mép trên thanh menu dưới — đo chiều cao thật thay cho 62px cố định
+  // (trên iPhone thanh menu cao hơn vài px nên thẻ cuối trong bảng bị các nút che mất mép dưới)
+  try {
+    const fitNav = () => { const h = nav.offsetHeight; if (h > 30) app.style.setProperty('--nav-h', h + 'px'); };
+    fitNav();
+    if (typeof ResizeObserver !== 'undefined') new ResizeObserver(fitNav).observe(nav);
+    window.addEventListener('resize', fitNav);
+  } catch (e) { /* giữ giá trị CSS */ }
   ctx.el = { app, hud, wrap, sceneUi, dock, nav, sheetRoot, modalRoot, toastRoot, fxRoot, coachRoot, pop: popRoot };
   window.matchMedia?.('(prefers-reduced-motion: reduce)')?.addEventListener?.('change', (e) => { ctx.reduced = e.matches; });
 

diff --git a/web/quanlau/src/core/state.js b/web/quanlau/src/core/state.js
@@ -58,7 +58,7 @@ export function defaultState(now = Date.now()) {
     viral: { days: 0, mult: 1 }, boost: 1, nextBoost: 1,   // boost = today's TikToker bonus, nextBoost = tomorrow's
     reservations: [],
     lottery: { tickets: 0, bets: 0, list: [], results: {}, nextId: 1 },   // v1.15 vé có số + đoán số
-    box: { got: {}, shards: 0, opened: 0, sinceRare: 0, sinceEpic: 0, sinceMyst: 0, freeDay: 0, spent: 0, badge: null, pot: null, table: null, log: [] },   // v1.18 Hộp mù
+    box: { got: {}, shards: 0, opened: 0, sinceRare: 0, sinceEpic: 0, sinceMyst: 0, freeDay: 0, spent: 0, badge: null, pot: null, table: null, chair: null, tform: null, cform: null, log: [] },   // v1.18 Hộp mù
     quests: { main: 0, mainClaimable: false, daily: { day: 0, list: [], allClaimed: false }, counters: {} },
     login: { lastDate: '', streak: 0, claimedDate: null },
     book: { kinds },

diff --git a/web/quanlau/src/render/renderer.js b/web/quanlau/src/render/renderer.js
@@ -487,7 +487,7 @@ export function createRenderer(canvas, game) {
 
     // environment handed to the art functions (one object, mutated in place)
     env.t = time; env.clock = s.clock; env.day = s.day; env.weather = wxNow; env.event = s.event; env.tier = s.tier;
-    setSkins(s.box && s.box.pot, s.box && s.box.table);   // v1.18 kiểu nồi / bàn Hộp mù
+    setSkins(s.box && s.box.pot, s.box && s.box.table, s.box && s.box.chair, s.box && s.box.tform, s.box && s.box.cform);   // v1.18 kiểu nồi / bàn Hộp mù
     env.layout = L; env.up = s.upgrades; env.deco = s.deco.equipped; env.open = s.phase === 'open' || s.phase === 'closing';
     env.shopName = s.shopName; env.city = s.location;   // v1.7 dời quán
     { // v1.2: the equipped lamp lights the whole shop — a little by day (CSS brightness), more at night (drawLighting)

diff --git a/web/quanlau/sw.js b/web/quanlau/sw.js
@@ -1,7 +1,7 @@
 // Lẩu Ơi! service worker (v1.2): makes the game installable as an app (Android "Cài đặt ứng dụng", desktop Chrome/Edge)
 // and lets it open without a connection. Network first: an online player always gets the newest files; the cached
 // copy is only used when the network fails. Saves live in localStorage and are never touched here.
-const CACHE = 'lauoi-v36';
+const CACHE = 'lauoi-v38';
 // Trang thật là /quanlau (vercel.json: trailingSlash:false) nên scope là "/quanlau", không phải "/quanlau/".
 const HOME = '/quanlau';
 const CORE = [HOME, 'index.html', 'style.css', 'manifest.json', 'src/main.js', 'assets/app/icon-192.png'];

diff --git a/web/quanlau/style.css b/web/quanlau/style.css
@@ -1681,3 +1681,5 @@ button.hchip:active { transform: translateY(2px); }
 .bx-pitys .bx-pity { padding: 7px 12px; }
 .seg-row.three { grid-template-columns: repeat(3, minmax(0, 1fr)); }
 .fun-seg.three .seg { font-size: 12px; gap: 4px; }
+/* v1.18h: chừa thêm chỗ dưới cùng bảng để thẻ cuối không sát / lẫn vào thanh menu */
+.sbody-inner { padding-bottom: calc(26px + var(--sab, 0px)); }

diff --git a/web/quanlau/src/main.js b/web/quanlau/src/main.js
@@ -9,7 +9,7 @@ const AUTOSAVE_SEC = 15;
 
 // The CDN caches style.css (JS is served no-cache), so swap the plain <link> for a versioned one.
 // Bump CSS_VER on every deploy that touches style.css.
-const CSS_VER = '20261022j';
+const CSS_VER = '20261022l';
 (function freshCss() {
   try {
     const old = document.querySelector('link[rel="stylesheet"][href="style.css"]');
